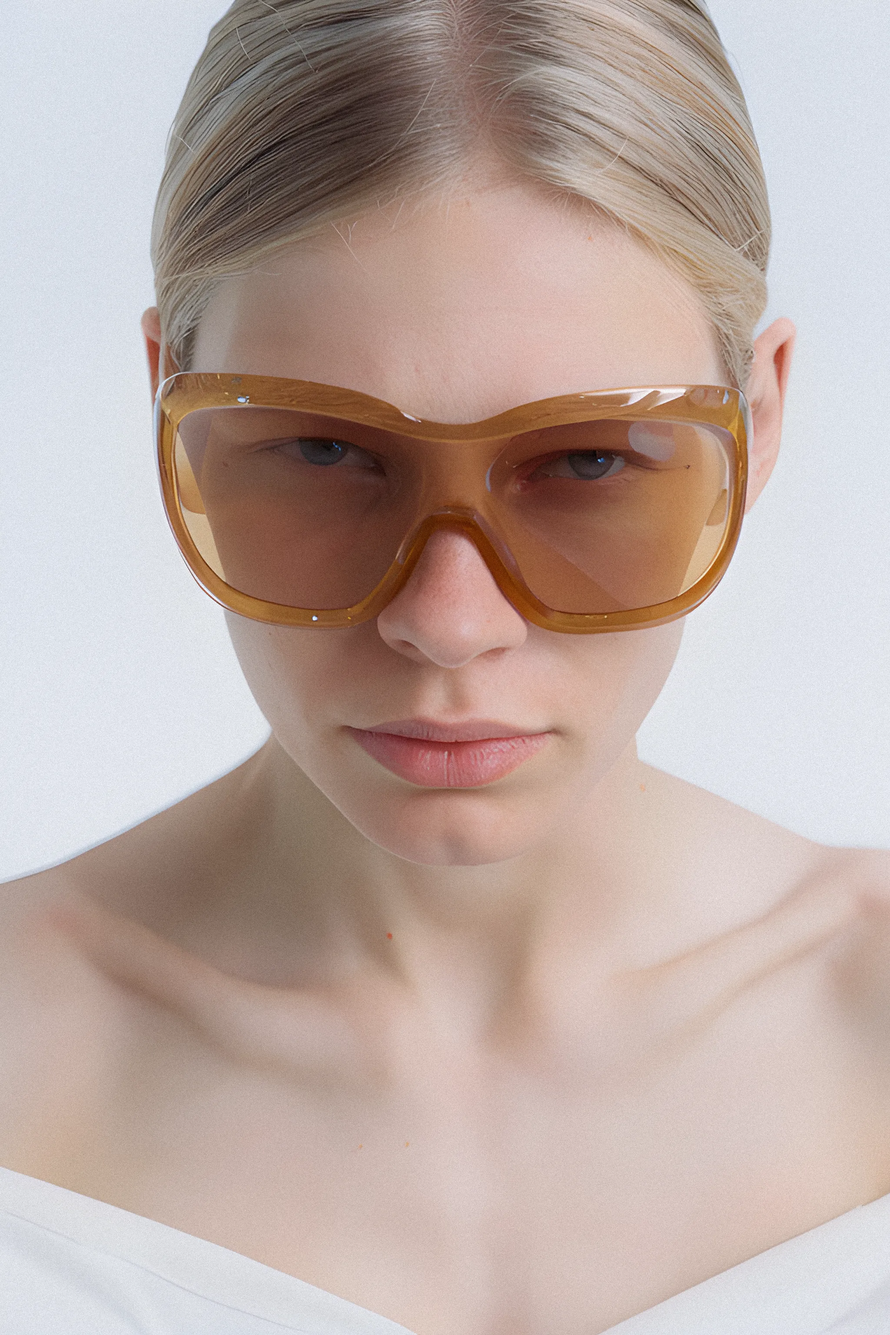
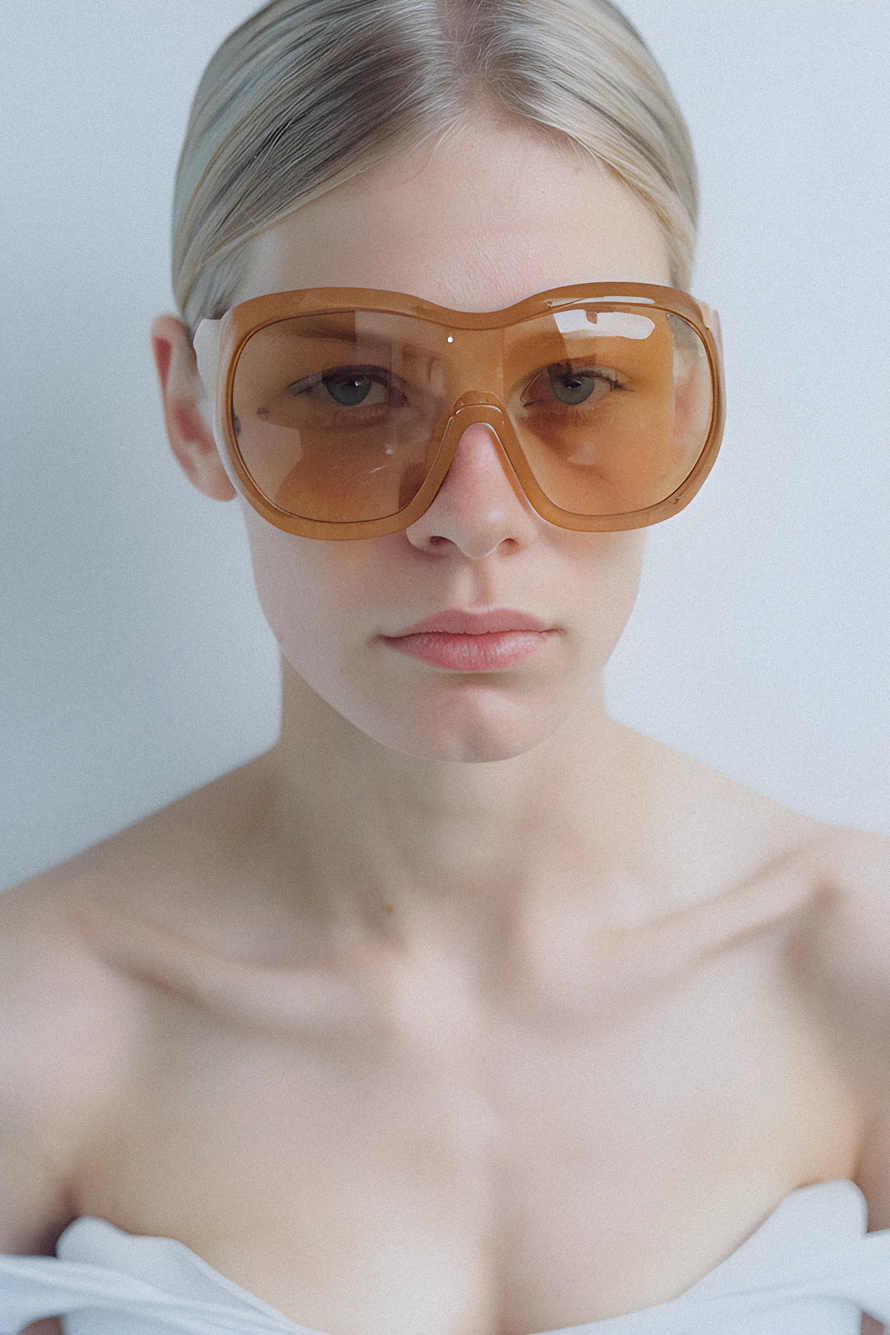
readme update

diff --git a/README.md b/README.md
@@ -1,3 +1,5 @@
+# flux-fashion-editorial
+
 Generate high-resolution, realistic fashion editorial images from a product photo and a optional mood board, using only open-source models and free Kaggle GPUs.
 
 ## Idea
